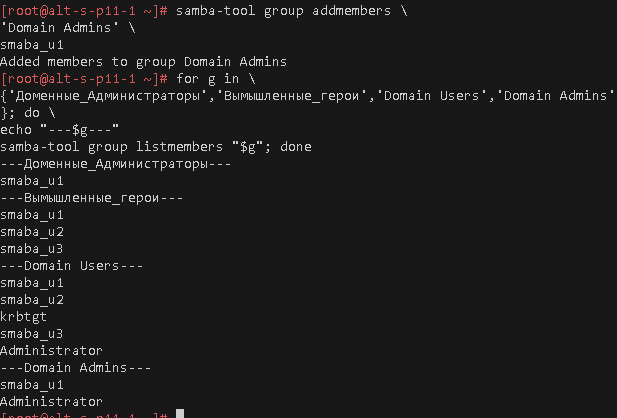
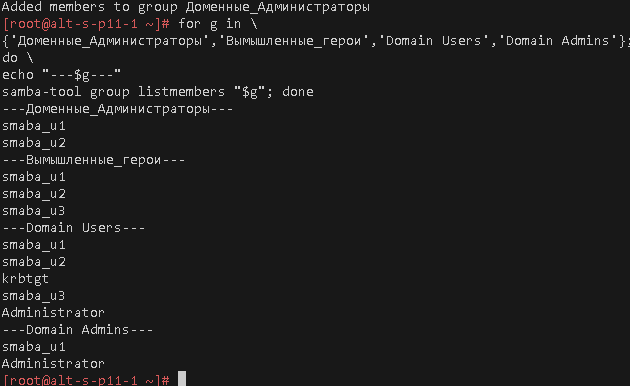
оформление для ADM4_lab4_upd6

diff --git a/adm4/lab4/README.md b/adm4/lab4/README.md
@@ -324,6 +324,11 @@ samba-tool group addmembers \
 'Доменные_Администраторы' \
 smaba_u1
 
+for n in {1,2}; do \
+samba-tool group addmembers \
+'Доменные_Администраторы' \
+smaba_u$n ; done
+
 samba-tool group addmembers \
 'Domain Admins' \
 smaba_u1
@@ -434,6 +439,43 @@ getent passwd smaba_u{1..3}
 ![](img/7.5.png)
 ![](img/7.6.png)
 
+#### Установка ролей
+```bash
+# Проверка работы ролей на хосте введённого в домен
+control libnss-role
+
+# Вывод списка ролей хоста
+rolelst
+
+# Добавление доменной группы в роль local admins
+echo 'Доменные_Администраторы:localadmins' >> /etc/role
+```
+#### Проверки входа
+```bash
+# Выход из-под суперпользователя
+exit
+
+# Выход с управляемого хоста
+exit
+
+# Подключение доменными учётными записями smaba_u1@DEN.SKV smaba_u2@DEN.SKV smaba_u3@DEN.SKV
+# Напоминание иерархии
+ssh -i ~/.ssh/id_kvm_host_to_vms -o "ProxyJump sadmin@192.168.121.2"  smaba_u3@DEN.SKV@10.10.10.244
+
+# Проверка получения kerberos билета при входе
+klist
+
+# Проверка членства в группах и ролях
+id
+
+# Проверка авторизации суперпользователем хоста
+su -
+```
+![](img/8.png)
+![](img/8.1.png)
+![](img/8.2.png)
+![](img/8.3.png)
+
 ### Для github
 ```bash
 git add . .. ../.. \
@@ -441,6 +483,6 @@ git add . .. ../.. \
 
 git log --oneline
 
-git commit -am "оформление для ADM4_lab4_upd5" \
+git commit -am "оформление для ADM4_lab4_upd6" \
 && git push -u altlinux main
 ```
